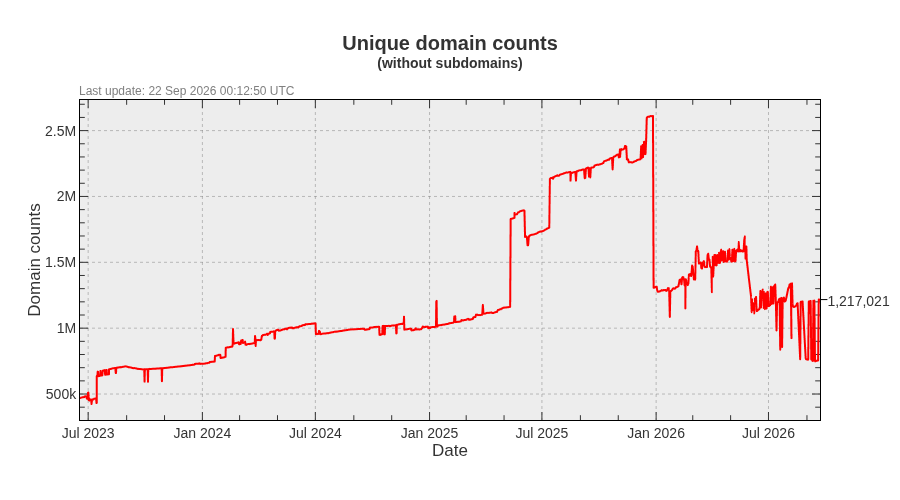
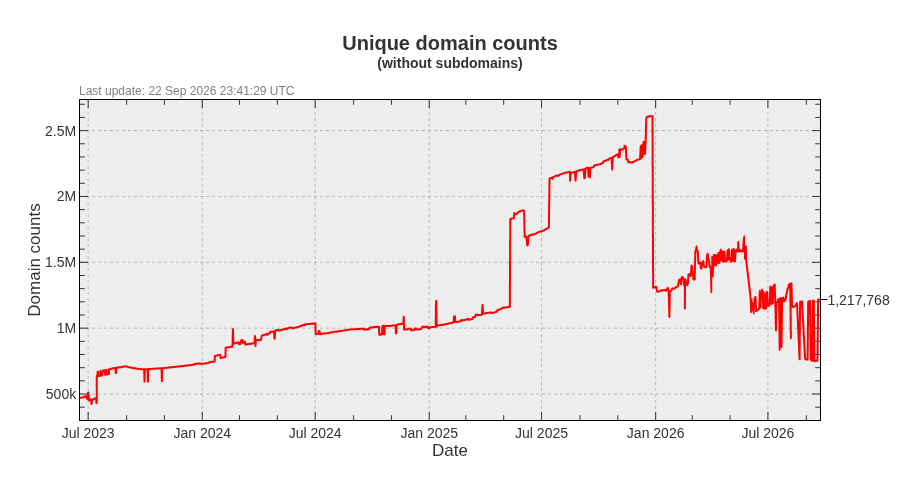
Update pages

diff --git a/README.md b/README.md
@@ -3,22 +3,22 @@ A blocklist file for blocking ads, trackers and malware domains.
 
[1 lines of base64/hex data omitted]
 
-- Unique domains: 1,999,257
-- Without subdomains: 1,217,021
-- Last update: 22 Sep 2026 00:12:50 UTC
-- Version: 2026.09.22.01
+- Unique domains: 1,999,906
+- Without subdomains: 1,217,768
+- Last update: 22 Sep 2026 23:41:29 UTC
+- Version: 2026.09.22.02
 
 
 ## Downloads:
 
 | Format             | Domain count      | Download Link |
 |------------------ | -----------------|-------------|
-| *Adblock Plus*     | 1,217,021 | [bad-hosts-abp](https://dl.cenk.app/bad-hosts/bad-hosts-abp) |
-| *Wildcard domains* | 1,217,021 | [bad-hosts-wildcard](https://dl.cenk.app/bad-hosts/bad-hosts-wildcard) |
-| *dnsmasq*          | 1,217,021 | [bad-hosts-dnsmasq](https://dl.cenk.app/bad-hosts/bad-hosts-dnsmasq) |
-| *hosts*            | 1,999,257 | [hosts](https://dl.cenk.app/bad-hosts/hosts) |
-| *hosts (ipv6)*     | 1,999,257 | [hosts-ipv6](https://dl.cenk.app/bad-hosts/hosts-ipv6) |
-| *Plain domains*    | 1,999,257 | [bad-hosts-domains](https://dl.cenk.app/bad-hosts/bad-hosts-domains) |
+| *Adblock Plus*     | 1,217,768 | [bad-hosts-abp](https://dl.cenk.app/bad-hosts/bad-hosts-abp) |
+| *Wildcard domains* | 1,217,768 | [bad-hosts-wildcard](https://dl.cenk.app/bad-hosts/bad-hosts-wildcard) |
+| *dnsmasq*          | 1,217,768 | [bad-hosts-dnsmasq](https://dl.cenk.app/bad-hosts/bad-hosts-dnsmasq) |
+| *hosts*            | 1,999,906 | [hosts](https://dl.cenk.app/bad-hosts/hosts) |
+| *hosts (ipv6)*     | 1,999,906 | [hosts-ipv6](https://dl.cenk.app/bad-hosts/hosts-ipv6) |
+| *Plain domains*    | 1,999,906 | [bad-hosts-domains](https://dl.cenk.app/bad-hosts/bad-hosts-domains) |
 
 ## Domain count history
 ### With subdomains
